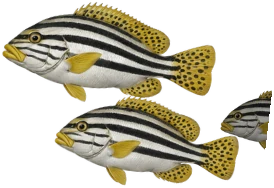
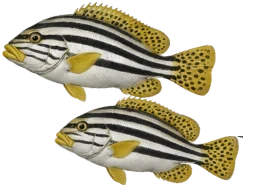
11/23 Ambre 修改：首頁第三隻魚不再斷開、動畫放慢漂浮加大；隱私權側欄改＋LINE、海星去背；退款頁拿掉「待業主確認」；預訂與行程頁拿掉「範例」；背包客房 800 定案
Claude-Session: https://claude.ai/code/session_01CnUJQdpZU55VMwko8NGFJY

Changed region(s): [[0.7883, 0.4787, 0.9927, 0.7979]]

diff --git a/src/assets/css/canvas-page.css b/src/assets/css/canvas-page.css
@@ -34,9 +34,9 @@ body { margin: 0; background: #010414; font-family: "Noto Sans TC", "Noto Sans C
              hc-sway var(--sway) ease-in-out calc(var(--delay) + var(--dur)) infinite;
 }
 /* 漂浮：上下約 14px（11/17 Ambre 要更生動，原本 7px 幾乎看不出來） */
-@keyframes hc-float { 0%, 100% { opacity: 1; transform: translate(0, 0); } 50% { opacity: 1; transform: translate(0, -14px); } }
+@keyframes hc-float { 0%, 100% { opacity: 1; transform: translate(0, 0); } 50% { opacity: 1; transform: translate(0, calc(-1 * var(--famp, 14px))); } }
 /* 珊瑚、海扇：從根部輕輕左右擺 */
-@keyframes hc-sway { 0%, 100% { opacity: 1; transform: rotate(0deg); } 25% { opacity: 1; transform: rotate(1.6deg); } 75% { opacity: 1; transform: rotate(-1.6deg); } }
+@keyframes hc-sway { 0%, 100% { opacity: 1; transform: rotate(0deg); } 25% { opacity: 1; transform: rotate(var(--samp, 1.6deg)); } 75% { opacity: 1; transform: rotate(calc(-1 * var(--samp, 1.6deg))); } }
 @media (prefers-reduced-motion: reduce) {
   .hc-anim .hc-fish-img, .hc-anim .hc-fish.is-in .hc-fish-img { opacity: 1 !important; transform: none !important; animation: none !important; }
 }

diff --git a/docs/首頁重做進度.md b/docs/首頁重做進度.md
@@ -41,3 +41,8 @@
 - 11/17 02:50：Ambre 上線後回饋：魟魚滑動方向反了、好幾個物件沒有動、希望魚上下飄動更生動。在 home-fix 分支修：魚的進場方向一律跟著魚頭（C02 魟魚、C04 裸胸鯙、C07 胡椒鯛跟 Canva 備註相反）；漂浮 7px → 14px；珊瑚 B03、海扇 C06 加從根部左右輕擺。裸胸鯙和岩洞是同一張圖，沒辦法單獨讓魚動。未上線，等 Ambre 看影片。
 - 11/17 03:10：Ambre：動畫影片可以；整體字級太大要小一點多留白；30 m 下面那段凌亂；按鈕和字的最右邊要對齊。在 home-fix 分支改：全頁文字 ×0.9（位置、框寬不變）；段落改左右對齊；30 m「也有住宿房型…」「看全部方案」併回同一欄；開場、12 m、18 m、30 m 的預訂按鈕右緣對齊同一欄文字實際最右邊（產生器用 Noto Sans CJK TC 量字寬）。修改前後對照圖在 docs/compare/home-fix/。未上線。
 - 11/17 15:05：Ambre 圈出 30 m 那一欄：文字和按鈕都要收在框內。在 home-fix2 分支：魅力點、也有住宿房型兩段縮到第一段說明的寬度，預訂按鈕右緣跟著對齊（對照圖 docs/compare/home-fix/04_30m_框內.png）。未上線。
+
+## 11/23 修改（Ambre）
+- 第三隻小胡椒鯛原本被切成兩張圖（C07 尾端帶著牠的頭、C07b 只有後半身），兩張圖動畫不同步就會「斷開」。已改成：C07 只留兩隻大的；C07b＝完整一隻小的（x913 y1379 w131 h64）。
+- 動畫放慢、漂浮加大：home.json 每隻魚的 dur、delay、float、sway 週期都 ×1.6；漂浮幅度 14px→24px（famp）、搖擺 1.6°→2.6°（samp）。CSS 預設值不變，所以其他頁不受影響。
+- 注意：home.json 是 scripts/build-home-data.py 產生的，重新跑腳本會蓋掉以上修改，要重跑前先把這些值補進腳本。
